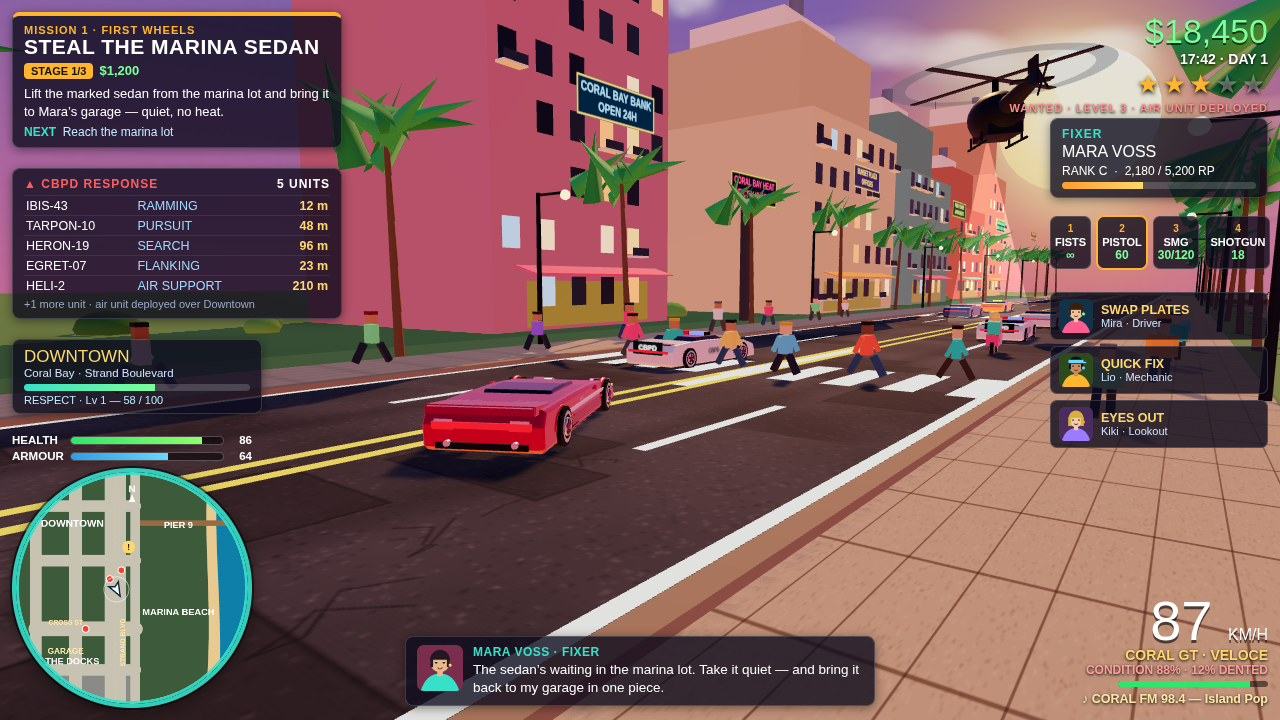
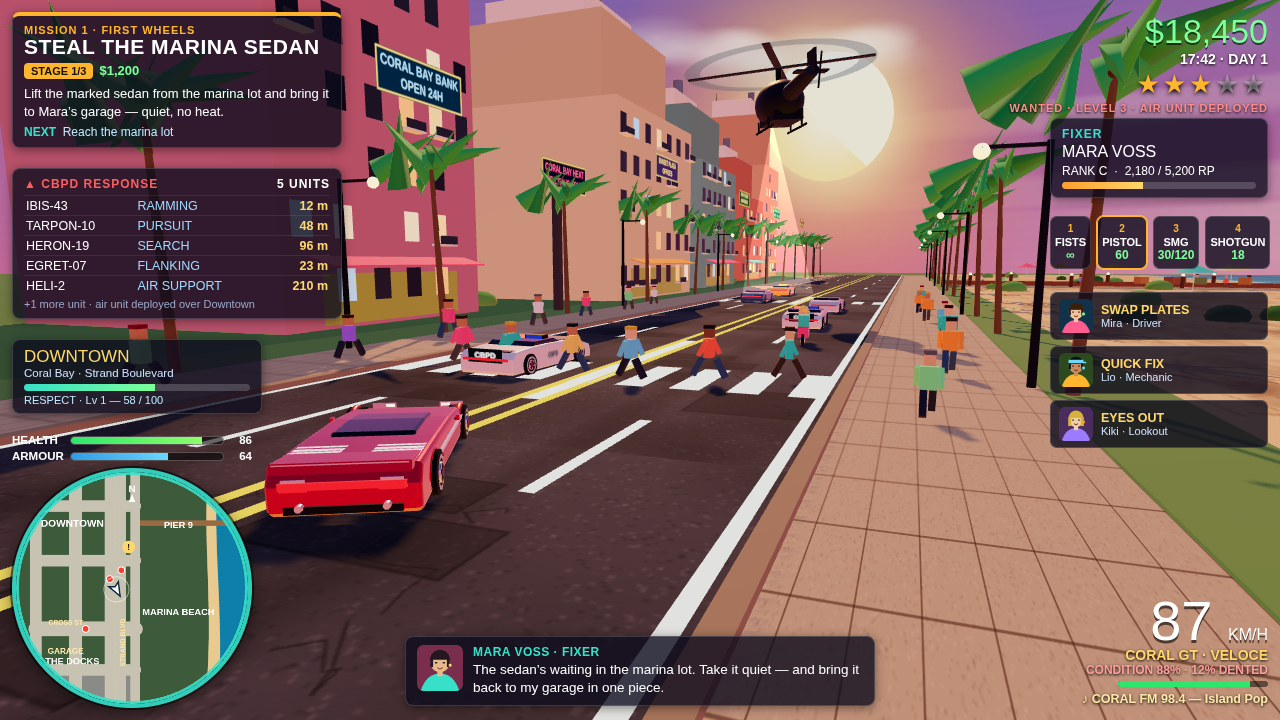
Phase 1 v4: louvres read, beach framing, pier/docks re-framed, wanted tag live

diff --git a/game/src/world.js b/game/src/world.js
@@ -325,11 +325,11 @@ export function buildCity(scene) {
     towel.position.set(ux + 1.6, 0.07, uz + 0.8);
     scene.add(towel);
   }
-  // beach-life cluster near the beach-shot camera (x 20..42, z 0..34):
+  // beach-life cluster near the beach-shot camera (x 20..42, z -20..-4):
   // umbrellas, towels, a volleyball net and sunbathers so the foreground
   // sand never reads as one flat beige plane
   for (let i = 0; i < 5; i++) {
-    const ux = 22 + i * 4.2, uz = 4 + (i % 2) * 9;
+    const ux = 20 + i * 4.2, uz = -18 + (i % 2) * 9;
     const pole = new THREE.Mesh(new THREE.CylinderGeometry(0.05, 0.05, 2.4, 6),
       new THREE.MeshStandardMaterial({ color: 0xeeeeee, roughness: 0.5 }));
     pole.position.set(ux, 1.2, uz);
@@ -346,7 +346,7 @@ export function buildCity(scene) {
     scene.add(towel);
   }
   // volleyball net
-  for (const nz of [8, 16]) {
+  for (const nz of [-14, -6]) {
     const np = new THREE.Mesh(new THREE.CylinderGeometry(0.06, 0.06, 2.4, 6),
       new THREE.MeshStandardMaterial({ color: 0xeeeeee, roughness: 0.5 }));
     np.position.set(28, 1.2, nz);
@@ -354,12 +354,12 @@ export function buildCity(scene) {
   }
   const net = new THREE.Mesh(new THREE.PlaneGeometry(8, 1.1),
     new THREE.MeshBasicMaterial({ color: 0xffffff, transparent: true, opacity: 0.45, side: THREE.DoubleSide }));
-  net.position.set(28, 1.8, 12);
+  net.position.set(28, 1.8, -10);
   scene.add(net);
   // beach ball
   const ball = new THREE.Mesh(new THREE.SphereGeometry(0.45, 12, 10),
     new THREE.MeshStandardMaterial({ color: 0xff5d8f, roughness: 0.4 }));
-  ball.position.set(26, 0.45, 10);
+  ball.position.set(24, 0.45, -12);
   ball.castShadow = true;
   scene.add(ball);
 
@@ -627,7 +627,7 @@ export function buildCity(scene) {
   }
   // sunbathers + players around the beach-life cluster (near beach camera)
   for (let i = 0; i < 7; i++) {
-    spots.push({ x: 22 + R() * 18, z: 2 + R() * 30, rot: R() * Math.PI * 2, scale: 0.95 });
+    spots.push({ x: 20 + R() * 18, z: -20 + R() * 22, rot: R() * Math.PI * 2, scale: 0.95 });
   }
   // pier crowd
   for (let i = 0; i < 8; i++) {

diff --git a/game/src/cars.js b/game/src/cars.js
@@ -112,13 +112,13 @@ export function makeHeroCar() {
   car.add(spine);
   // ---- rear deck: louvres, spoiler, taillights ----
   // deck louvres: 5 bright slats per side, angled, read from 3/4 rear.
-  // Slight self-light so they read against the red deck at any angle.
-  const louvreMat = new THREE.MeshStandardMaterial({ color: 0xf2f4f6, roughness: 0.2, metalness: 0.9, emissive: 0x9a9a9a, emissiveIntensity: 0.55 });
+  // Big and self-lit so they read as white dashes on the red deck.
+  const louvreMat = new THREE.MeshStandardMaterial({ color: 0xffffff, roughness: 0.25, metalness: 0.6, emissive: 0xcccccc, emissiveIntensity: 0.8 });
   for (const side of [-1, 1]) {
     for (let i = 0; i < 5; i++) {
-      // forward on the deck (z 1.58..2.10), clear of the spoiler, tall
+      // forward on the deck (z 1.55..2.27), clear of the spoiler, tall
       // enough to read over the deck from the cover angle
-      const lv = box(0.55, 0.06, 0.16, louvreMat, side * 0.55, 0.73 + i * 0.004, 1.58 + i * 0.13);
+      const lv = box(0.68, 0.07, 0.22, louvreMat, side * 0.55, 0.735 + i * 0.004, 1.55 + i * 0.18);
       lv.rotation.x = -0.12;
       car.add(lv);
     }

diff --git a/game/src/shots.js b/game/src/shots.js
@@ -6,8 +6,8 @@
 // Docks: gantry crane, containers, sun disc + heli in frame.
 export const SHOTS = {
   cover: {
-    cam: [10.5, 4.0, 12.0],
-    look: [0, 0.7, -2],
+    cam: [8.6, 3.4, 11.0],
+    look: [2.0, 0.8, -6],
     hero: [0.6, 0, 2],
     heroRot: 0.5,
     heli: [0.5, 13.5, -38],
@@ -15,9 +15,9 @@ export const SHOTS = {
     fov: 55,
   },
   pier: {
-    cam: [14, 3.4, -86],
-    look: [60, 1.0, -97],
-    hero: [22, 0, -95],
+    cam: [12, 3.8, -88],
+    look: [65, 1.0, -98],
+    hero: [26, 0, -93],
     heroRot: -Math.PI / 2,
     heli: [40, 26, -120],
     wanted: 1,
@@ -33,11 +33,11 @@ export const SHOTS = {
     fov: 55,
   },
   docks: {
-    cam: [10, 5.0, 110],
-    look: [-34, 9, 144],
-    hero: [-8, 0, 118],
-    heroRot: -0.4,
-    heli: [-30, 30, 132],
+    cam: [-2, 6, 158],
+    look: [-32, 8, 120],
+    hero: [-24, 0, 140],
+    heroRot: -0.785,
+    heli: [-28, 28, 130],
     wanted: 5,
     fov: 55,
   },

diff --git a/game/src/hud.js b/game/src/hud.js
@@ -146,4 +146,6 @@ export function updateHud(state) {
     for (let i = 0; i < 5; i++) html += `<span class="${i < state.wanted ? 'on' : 'off'}">&#9733;</span>`;
     stars.innerHTML = html;
   }
+  const tag = document.getElementById('wanted-tag');
+  if (tag) tag.textContent = `WANTED · LEVEL ${state.wanted} · AIR UNIT DEPLOYED`;
 }
